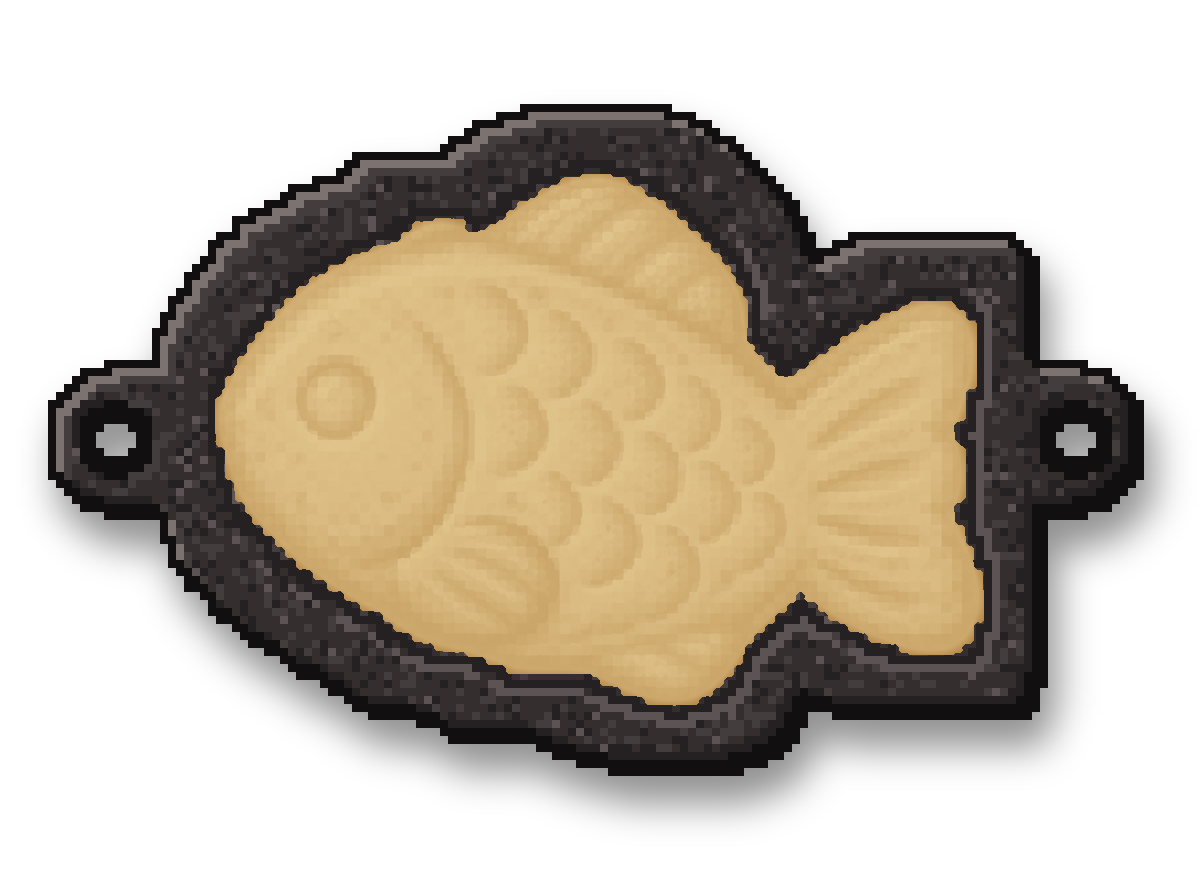
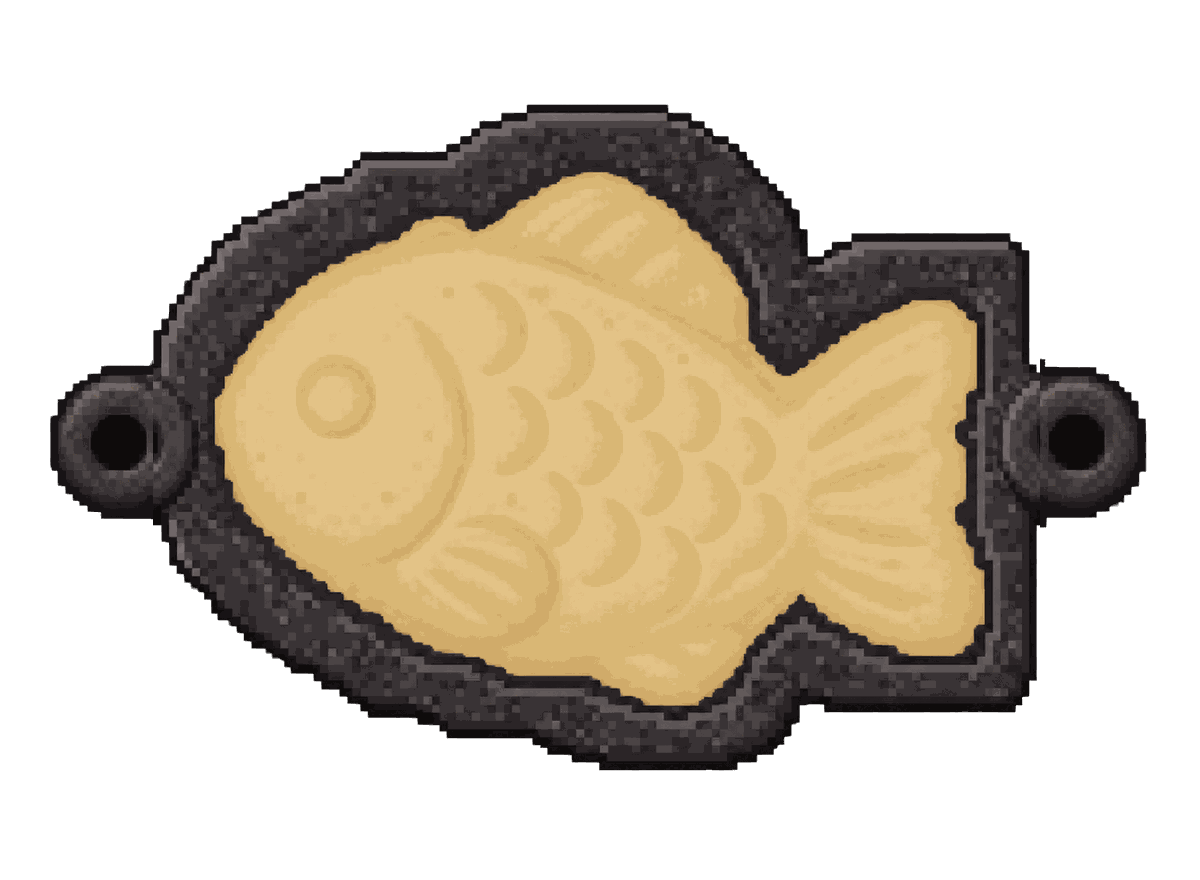
feat(art): 25번 36번 스페셜 틀·걸이 축 그림 적용 — 코드 임시 장치를 그림으로, 축 자리 (118,441.5)·(1076,441.5) — 26번 3차 F3
- tools/apply_25_art.py --only mold: 1464×1074 → 1200×880(붕어빵 홈 2px 안), 7장 모두 닫힌 틀 고리 사용, 축 두 장은 구멍에 맞춰 옮김, 256색
- MoldAxlePainter가 mold/axle_back·axle_front를 그림(없으면 코드 그림)
- flipAxleLeftRing/RightRing, WorkshopMoldArt.pictureTop/Bottom 102·833
- 미리보기 하네스에 속·덮기·뒤집기 81% 화면 추가, 홈·첫 영업·스킬 창·꾸미기 골든 갱신
- 25번 목록 36번 줄 추가, 24~31번 상태(보관·43~49번 대체, 31번 아이콘 재사용), MASTER·26번 F3 결과·DEC-TBD-hF3-1

diff --git a/1_app_development/lib/ui/workshop_mold_stage.dart b/1_app_development/lib/ui/workshop_mold_stage.dart
@@ -354,8 +354,9 @@ class _WorkshopMoldStageState extends State<WorkshopMoldStage> {
   }
 }
 
-/// The top and bottom of the mold picture's opaque part (mold/*.png rows
-/// 89~847 of 880) drawn over [rect] with [grow] (WorkshopMoldArt.fit).
+/// The top and bottom of the mold picture's opaque part with its axle
+/// (mold/*.png rows 102~833 of 880) drawn over [rect] with [grow]
+/// (WorkshopMoldArt.fit).
 (double, double) moldPictureSpan(Rect rect, double grow) {
   final (k, origin) = WorkshopMoldArt.fit(rect.size, grow);
   return (rect.top + origin.dy + WorkshopMoldArt.pictureTop * k,
@@ -496,8 +497,9 @@ class WorkshopMoldArt extends CustomPainter {
   /// (tools/make_home_stage_art.py).
   static const fishRect = Rect.fromLTRB(215, 174, 984, 706);
 
-  /// The first and last rows of the mold pictures' opaque part.
-  static const pictureTop = 89.0, pictureBottom = 847.0;
+  /// The first row of the mold pictures' opaque part and the last row of
+  /// the axle's feet under it (mold/axle_back.png), which stand lower.
+  static const pictureTop = 102.0, pictureBottom = 833.0;
   static const fishAt = Offset(100, 66);
   static final _smooth = Paint()..filterQuality = FilterQuality.medium;
 
@@ -567,8 +569,9 @@ class WorkshopMoldArt extends CustomPainter {
 /// mold), and while flipping the push's [progress] as a honey ring round
 /// the right pin and, before a push, a small curved arrow ([hint]). Drawn
 /// in the mold picture's coordinates (WorkshopMoldArt.fit), so it follows
-/// the mold's place and size. A stand-in until the new mold art with its
-/// own axle (25번 36번 주문) is in.
+/// the mold's place and size. The rods, posts and pins are 25번 36번 art
+/// (mold/axle_back.png, axle_front.png, 1200x880 like the mold); without
+/// them they are drawn in code.
 class MoldAxlePainter extends CustomPainter {
   final double grow, progress;
   final bool front, hint;
@@ -581,7 +584,11 @@ class MoldAxlePainter extends CustomPainter {
     final (k, origin) = WorkshopMoldArt.fit(size, grow);
     Offset at(double x, double y) => origin + Offset(x, y) * k;
     final rings = [flipAxleLeftRing, flipAxleRightRing];
-    if (!front) {
+    final art = PixelSprites.mold(front ? 'axle_front' : 'axle_back');
+    if (art != null) {
+      WorkshopMoldArt.drawAt(canvas, art, Offset.zero, k, origin);
+      if (!front) return;
+    } else if (!front) {
       for (final (i, (x, y)) in rings.indexed) {
         final out = i == 0 ? x - 66 : x + 66;
         // The rod from the ring out to the bracket.
@@ -609,7 +616,7 @@ class MoldAxlePainter extends CustomPainter {
       }
       return;
     }
-    for (final (x, y) in rings) {
+    for (final (x, y) in art == null ? rings : const <(double, double)>[]) {
       canvas.drawCircle(at(x, y), 21 * k, Paint()..color = iron);
       canvas.drawCircle(at(x, y), 13 * k, Paint()..color = brass);
       canvas.drawCircle(at(x - 4, y - 4), 5 * k, Paint()..color = const Color(0xfff3dca0));

diff --git a/1_app_development/tools/preview_h_c_test.dart b/1_app_development/tools/preview_h_c_test.dart
@@ -101,6 +101,22 @@ void main() {
       await shot(tester, 'batter');
       await tester.pumpWidget(const SizedBox.shrink());
     });
+    // 25번 36번 틀 그림(26번 3차 F3): 속·덮기 단계의 틀과 걸이 축.
+    for (final (name, steps) in const [('filling', 1), ('second', 2), ('closing', 3)]) {
+      testWidgets('틀 $name ${size.width}', (tester) async {
+        final c = await open(tester, size);
+        expect(await c.startPractice(), isTrue);
+        var s = c.state.session!;
+        if (steps >= 1) s = s.pour(s.token, PaintAmount.even);
+        if (steps >= 2) s = s.squeezeFilling(s.token, PaintAmount.even);
+        if (steps >= 3) s = s.pour(s.token, PaintAmount.even);
+        final at = s;
+        await c.command(() => c.state.session = at);
+        await tester.pump();
+        await shot(tester, 'mold_$name');
+        await tester.pumpWidget(const SizedBox.shrink());
+      });
+    }
     testWidgets('뒤집기 ${size.width}', (tester) async {
       final c = await open(tester, size, reduced: false);
       expect(await c.startPractice(), isTrue);
@@ -120,6 +136,12 @@ void main() {
         await tester.pump();
       }
       await shot(tester, 'flipping');
+      // Past standing on edge (about 100°, before 120° falls over).
+      for (var d = box.height * .3; d <= box.height * .55; d += 8) {
+        await gesture.moveTo(box.center + Offset(0, box.height * .2 - d));
+        await tester.pump();
+      }
+      await shot(tester, 'flipping_edge');
       await gesture.up();
       await tester.pumpWidget(const SizedBox.shrink());
     });

diff --git a/1_app_development/lib/ui/pixel_sprites.dart b/1_app_development/lib/ui/pixel_sprites.dart
@@ -163,6 +163,10 @@ class PixelSprites {
     'closed',
   ];
 
+  /// The special mold's hanging axle (25번 36번, same 1200x880 canvas as the
+  /// mold): rods and posts behind it, brass pins in front (MoldAxlePainter).
+  static const moldAxleNames = ['axle_back', 'axle_front'];
+
   static final _images = <String, ui.Image>{};
   static Future<void>? _loading;
   static final _paint = Paint()
@@ -327,6 +331,7 @@ class PixelSprites {
       }
     }
     yield* moldNames.map((n) => 'assets/images/mold/$n.png');
+    yield* moldAxleNames.map((n) => 'assets/images/mold/$n.png');
     for (final stove in _slot(CosmeticSlot.stove)) {
       yield _emptyStovePath(stove.id);
       yield _stoveFishPath(stove.id);

diff --git a/1_app_development/lib/feedback_config.dart b/1_app_development/lib/feedback_config.dart
@@ -76,6 +76,8 @@ const flipAxleDoneDegrees = 120.0;
 const flipAxleStartPx = 6.0;
 
 /// The axle's place in the mold picture (mold/*.png, 1200x880): the centres
-/// of the two side rings (measured on mold/closed.png).
-const flipAxleLeftRing = (114.0, 430.0);
-const flipAxleRightRing = (1072.0, 430.0);
+/// of the two side rings' holes, where the brass pins of mold/axle_front.png
+/// sit (25번 36번 art, measured on mold/closed.png; tools/apply_25_art.py
+/// --only mold).
+const flipAxleLeftRing = (118.0, 441.5);
+const flipAxleRightRing = (1076.0, 441.5);

diff --git a/1_app_development/tools/apply_25_art.py b/1_app_development/tools/apply_25_art.py
@@ -17,6 +17,7 @@ snaps the alpha so there is no halo:
     python tools/apply_25_art.py <26_feedback_generated> --only room --only title --only stall16 --preview
     python tools/apply_25_art.py <26_feedback_generated> --only intro --preview
     python tools/apply_25_art.py <26_feedback_generated> --only firstrun --only today --only packs --preview
+    python tools/apply_25_art.py <26_feedback_generated> --only mold --preview
 
 Run it in 1_app_development. Outputs:
 
@@ -83,6 +84,12 @@ Run it in 1_app_development. Outputs:
 * assets/images/ui/gold_pack_1..5.png (128x128): 25번 40번 shop gold packs
   from 40_gold_packs/, each a little bigger than the one before
   ([PACK_FILL], see packs()).
+* assets/images/mold/<state>.png (1200x880, 7 states) and mold/axle_back.png,
+  axle_front.png (1200x880): 25번 36번 special mold with its hanging axle
+  (26번 3차 H21) from 36_mold_axle/ (1464x1074 = the mold canvas x1.22, so a
+  plain resize keeps fishRect within 2 px). Every state takes its side lugs
+  from the closed mold (the lugs moved up to 10 px between states) and each
+  side of the axle layers is moved onto those lugs' holes (see molds()).
 """
 import argparse
 import sys
@@ -742,6 +749,62 @@ def packs(src):
     return made
 
 
+# ---------------------------------------------------------------- 26번 3차 F3
+
+MOLD_SIZE = (1200, 880)
+MOLD_STATES = ["empty", "batter", "batter_top", "filling_redbean", "filling_custard",
+               "filling_cocoa", "closed"]
+# Columns outside these come from the closed mold: the side lugs (the body
+# starts at x 155 on the left and ends near x 1038 on the right).
+MOLD_LUG_LEFT, MOLD_LUG_RIGHT = 153, 1040
+# Shift (mold px) of each half of the axle layers onto the closed mold's lug
+# holes: generated pins at (118.0, 437.3)/(1081.0, 437.3), holes at
+# (118.3, 441.5)/(1076.1, 441.3) — feedback_config flipAxleLeftRing/RightRing.
+AXLE_SHIFT = {"left": (0, 4), "right": (-5, 4)}
+
+
+def mold_clean(img):
+    """[img] at the mold size with only its biggest drawn piece (the cocoa
+    state has a few stray specks) and hard alpha (40/215)."""
+    small = premultiplied_resize(img, MOLD_SIZE)
+    return snap_alpha(biggest_piece(small), 40, 215)
+
+
+def mold_save(img, name):
+    """256 flat colours without dither (about 80 KB instead of 550 KB, mean
+    change under 1.1 of 255)."""
+    img.quantize(256, method=Image.Quantize.FASTOCTREE, dither=Image.Dither.NONE).save(
+        IMAGES / "mold" / f"{name}.png", optimize=True)
+
+
+def molds(src):
+    """25번 36번: the special mold's 7 states with round axle bushings, and
+    the hanging axle in two layers (axle_back: posts and rods behind the
+    mold; axle_front: brass pin heads in front of a turning mold)."""
+    folder = next((src / f for f in ("36_mold_axle", "H-C-1_mold_axle")
+                   if (src / f).is_dir()), src)
+    states = {n: np.asarray(mold_clean(load(folder / f"{n}.png"))).copy() for n in MOLD_STATES}
+    lugs = states["closed"]
+    made = {}
+    for name, a in states.items():
+        a[:, :MOLD_LUG_LEFT] = lugs[:, :MOLD_LUG_LEFT]
+        a[:, MOLD_LUG_RIGHT:] = lugs[:, MOLD_LUG_RIGHT:]
+        out = Image.fromarray(a, "RGBA")
+        mold_save(out, name)
+        made[f"mold/{name}"] = out
+    half = MOLD_SIZE[0] // 2
+    for name in ("axle_back", "axle_front"):
+        img = load(folder / f"{name}.png").crop((0, 0, 1464, 1074))
+        small = snap_alpha(premultiplied_resize(img, MOLD_SIZE), 40, 215)
+        out = Image.new("RGBA", MOLD_SIZE)
+        for side, box in (("left", (0, 0, half, MOLD_SIZE[1])), ("right", (half, 0) + MOLD_SIZE)):
+            dx, dy = AXLE_SHIFT[side]
+            out.alpha_composite(small.crop(box), (box[0] + dx, box[1] + dy))
+        mold_save(out, name)
+        made[f"mold/{name}"] = out
+    return made
+
+
 def main():
     p = argparse.ArgumentParser()
     p.add_argument("source", type=Path, help="the 25_generated folder")
@@ -750,7 +813,7 @@ def main():
                    help="re-measure STOVE_FIT (slow, a few minutes)")
     steps = ["stoves", "bags", "drips", "rings", "textures", "locks", "sparkles",
              "gold", "levelup", "tabs", "room", "title", "stall16", "intro",
-             "firstrun", "today", "packs"]
+             "firstrun", "today", "packs", "mold"]
     p.add_argument("--only", choices=steps, action="append",
                    help="run only these steps (repeatable)")
     args = p.parse_args()
@@ -781,7 +844,7 @@ def main():
     for step, run_step in (("gold", gold), ("levelup", levelup), ("tabs", tabs),
                            ("room", room), ("title", title), ("stall16", stall16),
                            ("intro", intro), ("firstrun", first_run), ("today", today),
-                           ("packs", packs)):
+                           ("packs", packs), ("mold", molds)):
         if step in run and args.only:
             print(step)
             made.update(run_step(src))

diff --git a/2_development_plans_and_checklists/2.1_development_specs_tasks_and_progress/25_필요한그림프롬프트.md b/2_development_plans_and_checklists/2.1_development_specs_tasks_and_progress/25_필요한그림프롬프트.md
@@ -34,18 +34,19 @@
 | 21 | 손님 알림 상태 표시줄 아이콘(흰 붕어빵 실루엣) | **완료** (2026-11-18, 생성 그림 적용) |
 | 22 | 기능 소개 카드 그림 8종(스킬·6구·도감·레시피·특별 주문·붕어빵 꾸미기·신선도·가게 꾸미기) | **완료** (2026-11-19, 생성 그림 적용: `tools/apply_25_art.py --only intro`로 160×120) |
 | 23 | 맨 바탕 사장님(옷·머리 없음) 남녀 × 피부톤 3 | **기준 바탕 확정** (2026-11-19, 사용자 디자인 확인 — `23_avatar_base/normalized/`로 1120×2080 정규화, 게임 `avatar_v2/<성별>/base@skin1~3.png`에 넣음·스위치 꺼짐). 24~31번은 이 정규화 바탕에 맞춰 생성 → **2026-11-20 쓰지 않음**(얼굴이 지금 사장님과 달라 사용자가 v1을 고름, 파일은 보관) → **42번으로 대체** |
-| 24 | 머리 4종 × 남녀 (+ 몸 뒤 머리 조각) | **생성됨·적용 전 검수 필요** — 상세 항목의 상태·저장 경로 참조 → **2026-11-20: v1 몸에서 입은 느낌이 안 나 쓰지 않음 → 43번으로 다시 그림** |
-| 25 | 모자 9종 × 남녀 (야구모자 2종은 비스듬히) | **생성됨·적용 전 검수 필요** — 상세 항목의 상태·저장 경로 참조 → **2026-11-20: v1 몸에서 입은 느낌이 안 나 쓰지 않음 → 44번으로 다시 그림** |
-| 26 | 상의 8종 × 남녀 (흰 티·요리사 복·패딩 조끼 포함) | **생성됨·적용 전 검수 필요** — 상세 항목의 상태·저장 경로 참조 → **2026-11-20: v1 몸에서 입은 느낌이 안 나 쓰지 않음 → 45번으로 다시 그림** |
-| 27 | 하의 10종 × 남녀 (기존 4 + 새 6) | **생성됨·적용 전 검수 필요** — 상세 항목의 상태·저장 경로 참조 → **2026-11-20: v1 몸에서 입은 느낌이 안 나 쓰지 않음 → 46번으로 다시 그림** |
-| 28 | 신발 4종 × 남녀 | **생성됨·적용 전 검수 필요** — 상세 항목의 상태·저장 경로 참조 → **2026-11-20: v1 몸에서 입은 느낌이 안 나 쓰지 않음 → 47번으로 다시 그림** |
-| 29 | 앞치마 5종 × 남녀 | **생성됨·적용 전 검수 필요** — 상세 항목의 상태·저장 경로 참조 → **2026-11-20: v1 몸에서 입은 느낌이 안 나 쓰지 않음 → 48번으로 다시 그림** |
-| 30 | 소품 6종·도구 4종 × 남녀 | **생성됨·적용 전 검수 필요** — 상세 항목의 상태·저장 경로 참조 → **2026-11-20: v1 몸에서 입은 느낌이 안 나 쓰지 않음 → 49번으로 다시 그림** |
-| 31 | 꾸미기 아바타 칸 아이콘 56장(피부톤 = 얼굴 없는 마네킹) | **생성됨·적용 전 검수 필요** — 상세 항목의 상태·저장 경로 참조 → **2026-11-20: 아이템 아이콘은 재사용**(사장님 아이콘만 v1 얼굴로 되돌림) |
+| 24 | 머리 4종 × 남녀 (+ 몸 뒤 머리 조각) | **보관(쓰지 않음)** — 23번 v2 바탕용으로 생성해 게임 `avatar_v2/`에 넣었으나, 2026-11-20 사용자 결정(DEC-145·147: v1 사장님 유지, v1 몸에서 입은 느낌이 안 남)으로 새 아바타 스위치(`avatarV2Enabled`)를 끈 채 파일만 보관 → **43번으로 대체** |
+| 25 | 모자 9종 × 남녀 (야구모자 2종은 비스듬히) | **보관(쓰지 않음)** — 23번 v2 바탕용으로 생성해 게임 `avatar_v2/`에 넣었으나, 2026-11-20 사용자 결정(DEC-145·147: v1 사장님 유지, v1 몸에서 입은 느낌이 안 남)으로 새 아바타 스위치(`avatarV2Enabled`)를 끈 채 파일만 보관 → **44번으로 대체** |
+| 26 | 상의 8종 × 남녀 (흰 티·요리사 복·패딩 조끼 포함) | **보관(쓰지 않음)** — 23번 v2 바탕용으로 생성해 게임 `avatar_v2/`에 넣었으나, 2026-11-20 사용자 결정(DEC-145·147: v1 사장님 유지, v1 몸에서 입은 느낌이 안 남)으로 새 아바타 스위치(`avatarV2Enabled`)를 끈 채 파일만 보관 → **45번으로 대체** |
+| 27 | 하의 10종 × 남녀 (기존 4 + 새 6) | **보관(쓰지 않음)** — 23번 v2 바탕용으로 생성해 게임 `avatar_v2/`에 넣었으나, 2026-11-20 사용자 결정(DEC-145·147: v1 사장님 유지, v1 몸에서 입은 느낌이 안 남)으로 새 아바타 스위치(`avatarV2Enabled`)를 끈 채 파일만 보관 → **46번으로 대체** |
+| 28 | 신발 4종 × 남녀 | **보관(쓰지 않음)** — 23번 v2 바탕용으로 생성해 게임 `avatar_v2/`에 넣었으나, 2026-11-20 사용자 결정(DEC-145·147: v1 사장님 유지, v1 몸에서 입은 느낌이 안 남)으로 새 아바타 스위치(`avatarV2Enabled`)를 끈 채 파일만 보관 → **47번으로 대체** |
+| 29 | 앞치마 5종 × 남녀 | **보관(쓰지 않음)** — 23번 v2 바탕용으로 생성해 게임 `avatar_v2/`에 넣었으나, 2026-11-20 사용자 결정(DEC-145·147: v1 사장님 유지, v1 몸에서 입은 느낌이 안 남)으로 새 아바타 스위치(`avatarV2Enabled`)를 끈 채 파일만 보관 → **48번으로 대체** |
+| 30 | 소품 6종·도구 4종 × 남녀 | **보관(쓰지 않음)** — 23번 v2 바탕용으로 생성해 게임 `avatar_v2/`에 넣었으나, 2026-11-20 사용자 결정(DEC-145·147: v1 사장님 유지, v1 몸에서 입은 느낌이 안 남)으로 새 아바타 스위치(`avatarV2Enabled`)를 끈 채 파일만 보관 → **49번으로 대체** |
+| 31 | 꾸미기 아바타 칸 아이콘 56장(피부톤 = 얼굴 없는 마네킹) | **일부 재사용** — v2용으로 적용했다가 2026-11-20 사용자 결정(DEC-145·147)으로 새 아바타 스위치를 끔. **아이템 아이콘은 그대로 재사용**, 사장님(피부톤) 아이콘만 v1 얼굴로 되돌림 |
 | 32 | 겨울 행사 매대 장식 3종(첫눈·크리스마스·설날) | **완료** (2026-11-19, 생성 그림 적용: `deco/event_<kind>.png` 폭 540, 설정 `seasonal_events[].decoration` = `event_<kind>`) |
 | 33 | 스킬 창 'LEVEL UP' 글자 버튼(켜짐·꺼짐) | **완료** (2026-11-19, 생성 그림 적용: 켜짐 그림만 사용, 꺼짐은 켜짐을 회색으로 바꿔 만듦 — 생성된 꺼짐 그림은 면에 구멍 2개) |
 | 34 | 6구 뚜껑 '낮게 젖힌 뚜껑'(열림 4종) | **완료** (2026-11-19, 생성 그림 적용: `tools/apply_26_stoves.py --low`로 `stove_open/<화로>.png` 4장 교체, 홈 뚜껑 그리기가 판 뒤 가장자리까지 내려가게 고침) |
 | 35 | 창 제목 옆 붕어빵 장식 다시 그리기 | **완료** (2026-11-19, 생성 그림 적용: `ui/title_fish.png` 96×72) |
+| 36 | 스페셜 붕어빵 틀 다시 그리기 — 양옆 고리에 걸이 축(3차 H21) | **완료** (2026-11-20, 26번 3차 F3: `tools/apply_25_art.py --only mold`로 틀 7장 `mold/<상태>.png`와 걸이 장치 `mold/axle_back.png`·`axle_front.png`(모두 1200×880, 256색) 적용, `MoldAxlePainter`가 코드 그림 대신 이 두 장을 그림. 붕어빵 홈 `fishRect` 그대로(2px 안), 고리 구멍 중심 (118,441.5)·(1076,441.5)로 `flipAxleLeftRing`·`RightRing` 갱신. 재생성 필요 없음) |
 | 37 | 첫 실행 화면(로그인·이름·캐릭터·선택 정보) 겨울 붕어빵 노점 일러스트 | **완료** (2026-11-20, 26번 3차 F2: `tools/apply_25_art.py --only firstrun`로 `ui/first_run.png` 416×945(원본 정확히 절반, 256색) 적용. 네 화면 모두 위 천막·등불, 아래 수레 바퀴·눈길이 보임, 재생성 필요 없음) |
 | 38 | '오늘' 창 아이콘 2종: 출석 도장·오늘의 주문서 | **완료** (2026-11-20, 26번 3차 F2: `tools/apply_25_art.py --only today`로 `icons/stamp.png`·`icons/order.png` 72×72 적용, `AttendanceStampIcon`·`DailyOrderIcon`이 `PixelIcon`을 씀. 도장 옆 '찍힌 자국'은 26px에서 도장이 너무 작아져 잘라 냄, 재생성 필요 없음) |
 | 39 | 공유 카드용 사장님 '자랑 포즈'(붕어빵을 들어 보이는 앞모습) 남녀 | **재생성 필요 · 42번 확정 뒤에 생성** — 2026-11-20 검수(26번 3차 F2): 생성분은 v2 맨 바탕(23번) 기준 맨팔이라 지금 v1 사장님에 얹으면 원래 내린 팔이 그대로 남아 팔이 네 개, 어깨 위치도 어긋남 → **적용하지 않음**. v1(42번) 기준 재생성 요청은 39번 절 '재생성 요청'. 그동안 공유 카드는 앞모습 + 집게 끝 붕어빵 그대로 |
@@ -1405,10 +1406,11 @@ It fills about 90% of the canvas. No text, no background, no shadow.
 | 그림 내용 | 틀: 지금 틀과 같은 무쇠 질감·외곽선, 양옆 고리를 조금 더 두껍고 둥근 **축 구멍(부싱)** 으로. 장치: 고리를 관통하는 짧은 쇠 막대가 양쪽 바깥으로 약 60px 나와 작은 무쇠 받침대(세로 기둥 + 발판, 그림 아래끝 약 y 870)에 걸림, 고리 앞에는 놋쇠 핀 머리. 노점 붕어빵 기계처럼 "축에 걸려 있다"가 한눈에 보이게 |
 | 참고 원본 | 지금 `mold/closed.png`·`mold/empty.png`, 임시 장치 화면 `C:\Users\이소이\Desktop\26번_시안_확인\3차\C\H21_after_flip_390x844.png` |
 | 생성 원본 폴더 | `4_image_generation_results_and_backups/26_feedback_generated/36_mold_axle/` |
-| 상태 | 생성됨 — 4_image_generation_results_and_backups/26_feedback_generated/36_mold_axle/ |
+| 상태 | 생성됨·**적용 완료(2026-11-20, 26번 3차 F3)** — 4_image_generation_results_and_backups/26_feedback_generated/36_mold_axle/ |
 | 생성 원본 | 틀 7장 + axle_back·axle_front 총 9장, 각 PNG·정확한 프롬프트·메타데이터·validation.json 저장. 실제 크기 8장 1464×1074, axle_back 1464×1075, RGBA 알파 0~255. 처음 작업한 H-C-1_mold_axle/는 백업으로 보존. 반죽·속은 기존 상태를 유지하고 추가 음식은 그리지 않음. |
 | 추가 확인 요청 | 적용 전 모두 1200×880으로 맞추고 fishRect(215,174)~(984,706)·고리 중심(114,430)/(1072,430)을 원본에 정렬해 주세요. 생성 도구가 고리 외 픽셀 동일성을 보장하지 않았으므로 원본 틀과 합성 검수 필요. 핀 중심은 단순 축소 시 약(118.4,437.5)/(1081.6,437.5), 받침 발은 y828.4로 목표 y870과 달라 위치·높이 보정 필요. 두 장치 레이어가 회전하는 틀과 분리되어 맞물리는지도 확인. 임시 H21 화면은 C:/D: 지정 경로에서 찾지 못해 현재 empty/closed 원본과 명시 좌표를 참조함. |
 | 적용 | 틀 7장은 같은 이름으로 교체, `axle_back`·`axle_front`가 들어오면 `MoldAxlePainter`가 코드 그림 대신 이 두 장을 그리도록 바꿈(작은 코드 변경) → `workshop_home_*` 골든 다시 만듦 |
+| 적용 결과 (2026-11-20, 26번 3차 F3) | **검수**: 1464×1074는 1200×880의 정확히 1.22배라 그냥 줄이면 붕어빵 홈(반죽 색 영역)이 (215,174)~(984,706)에 2px 안으로 맞음 → 반죽·속 칠 마스크(`fish_cavity_mask.dart`)·결과 붕어빵 자리 그대로. 다만 ① 고리 구멍 위치가 상태마다 최대 10px 다름(반죽 그림 왼쪽 128 / 닫힌 틀 118) → 7장 모두 **닫힌 틀의 고리**(x<153, x≥1040 열)를 붙여 같게 함(이음매 안 보임). ② 핀 그림 중심 (118,437.3)/(1081,437.3)이 구멍 (118.3,441.5)/(1076.1,441.3)과 어긋남 → 축 두 장을 좌우 반쪽씩 (0,+4)/(−5,+4) 옮김. ③ 받침 발 아래끝은 y 833(요청 870보다 위) — 화면에서 판매대 근처에 서 보여 그대로 씀. ④ 코코아 그림의 떨어진 점 8개 지움, 생성 틀에는 바닥 그림자가 없음(걸려 있는 모양이라 그대로). **코드**: `MoldAxlePainter`가 `PixelSprites.mold('axle_back'/'axle_front')`를 틀과 같은 좌표로 그림(없으면 예전 코드 그림), 진행 고리·굽은 화살표는 코드 그대로. `flipAxleLeftRing`·`RightRing` (114,430)·(1072,430) → (118,441.5)·(1076,441.5) — 뒤집을 때 틀이 핀을 지나는 축으로 돎(90° 근처에서 틀이 핀 높이 한 줄로 보임). `WorkshopMoldArt.pictureTop/Bottom` 89·847 → 102·833(틀 위끝 ~ 받침 발 아래끝). 256색으로 줄여 한 장 약 80KB. **확인**: 390×844·360×800 영업 준비·반죽·속·덮기·뒤집기(43%·81%)·결과에서 핀이 구멍 가운데, 기둥이 틀 뒤, 겹침·잘림 없음. 확인 그림 `C:\Users\이소이\Desktop\26번_시안_확인\3차\F3\25-36_*` |
 
 ### Prompt
 

diff --git a/2_development_plans_and_checklists/2.1_development_specs_tasks_and_progress/2.1.1_game_rules_and_decisions/00_결정취합.md b/2_development_plans_and_checklists/2.1_development_specs_tasks_and_progress/2.1.1_game_rules_and_decisions/00_결정취합.md
@@ -541,6 +541,7 @@ DEC-016: 고정8명·외모/호칭/상황대사·점진 도감·친밀도/관계
 | DEC-145 | 아바타는 v1(지금 얼굴·몸) 유지, 아이템만 바꿈 (26번 3차 G, DEC-140 일부 되돌림) | [확정] 사용자 결정(2026-11-20) "아바타 전(v1)이 더 낫다, 얼굴·몸은 그대로 두고 머리·옷·모자·신발·앞치마·소품만 바꿔야" | ① 새 아바타(v2) 스위치를 끔(`avatarV2Enabled = false`), v2·23번 바탕 그림은 보관 ② 남자 v1 바탕을 3차 전 원본으로 되돌림(B1의 `rebase`가 얼굴을 바꿨음) — 얼굴 픽셀 0개 변경, H9는 목 띠 좌우 대칭(`tidy`)만, 바닥 찌꺼기·팔 옆 흰 찌꺼기 지움 ③ 집게 없음(H8) 유지 ④ v1 아이템 정리: 여자 옷 레이어에 남은 긴 머리 끝(짧은·묶은 머리에서 손 옆에 뜨던 것, `strands`), 남자 옷의 팔·몸 사이 흰 찌꺼기(`gap`), 모자 아래 남자 짧은 머리는 바탕 머리로(`v1HatHairAsBase`). 숨긴 v1 아이템은 황금 집게뿐 ⑤ 25번 42번: v1 얼굴·몸 그대로 머리·옷만 지운 맨 바탕 주문 ⑥ 사용자 추가 요구(2026-11-20) '아이템이 스티커처럼 얹히지 않고 입은 느낌으로': 24~30번(v2용)은 v1 몸에 옮기면 머리·어깨 크기가 달라 입은 느낌이 나지 않아 **재사용하지 않고** 43~49번으로 v1 몸에 입은 모습(주름·그림자·가림, 몸 뒤 `_back`·손가락 `_front` 조각)으로 다시 주문, 31번 아이템 아이콘만 재사용. 그림이 오면 v1 얼굴 픽셀을 지키며 바탕을 바꾸고 점검 시트 통과 뒤 스위치를 켬 |
 | DEC-146 | 황금 집게 → 황금 뒤집개로 다시 그림 (26번 3차 G, DEC-140 ①의 확인 필요 답) | [확정] 사용자 결정(2026-11-20) '다른 손 도구로' + 도구 종류는 추천안(황금 뒤집개) | 상품 id `goldtongs`·가격·해금·보유 기록 그대로, 그림이 올 때까지 숨김 유지. 25번 41번에 황금 뒤집개(붕어빵 틀 뒤집개, 30번 도구 규격, 남녀) 영어 프롬프트 주문. 그림이 오면 이름 '황금 뒤집개'(앱·설정·서버 생성 설정 → 서버 배포 필요)와 그림만 바꾸고 숨김 해제 |
 | DEC-147 | 25번 42번 맨 바탕 확정: 생성 시안 그대로 + 머리 회색 덮개만 지움 (DEC-145 ⑤ 보완) | [확정] 사용자 결정(2026-11-20) | 42번 생성 시안(880×1787)의 얼굴·몸을 그대로 채택하고 v1 원본 픽셀로 복원하지 않음(42번 '얼굴·몸 픽셀 그대로' 요구 없앰). 회색 머리 덮개만 같은 피부색의 매끈한 맨머리로 칠함(외곽선 유지, 회색 민소매·속바지·맨발 그대로). 23번처럼 균일 배율+평행 이동으로 1120×2080 정규화(배율은 눈~발바닥 거리를 v1과 같게, 발바닥 2079행), skin2·3은 23번 색 맞춤으로 피부만 다시 칠함 → `42_v1_bare_base/normalized/<성별>/base_skin1~3.png`(도구 `42_v1_bare_base/review/finalize_bare_base.py`). 새 좌표 여자 눈 (613.25, 687.75)·입 (612.5, 814.5), 남자 눈 (605.75, 680.5)·입 (603.5, 797.5), 발 2079행 — 43~49번은 이 바탕·좌표로 생성. 앱 스위치(`avatarV2Enabled`)는 아직 꺼진 채 v1, 43~49번 그림이 오면 이 바탕으로 바꿈 |
+| DEC-TBD-hF3-1 | 25번 36번 틀·걸이 축 그림 적용 — 축 자리를 새 그림 고리 구멍으로 (26번 3차 F3, H21 보완) | [확정] 추천안(그림 검수 결과) | 생성 틀 7장 + `axle_back`·`axle_front`를 `tools/apply_25_art.py --only mold`로 1200×880에 맞춰 적용(붕어빵 홈 `fishRect` 그대로). 상태마다 고리 위치가 달라 7장 모두 닫힌 틀의 고리를 씀, 핀·막대는 그 구멍에 맞춰 옮김. 뒤집기 축 `flipAxleLeftRing`·`flipAxleRightRing` (114,430)·(1072,430) → (118,441.5)·(1076,441.5), 틀 자리 계산 `pictureTop/Bottom` 89·847 → 102·833(받침 발 포함). 뒤집기 규칙(틀 높이만큼 밀면 180°, 120° 넘으면 넘어감)은 그대로. 생성 틀에 바닥 그림자 없음 — 걸려 있는 모양이라 그대로 둠 |
 
 ### 26번 2차 구현 전 확정 — 추천안과 단계별 답 (2026-11-18)
 

diff --git a/2_development_plans_and_checklists/2.1_development_specs_tasks_and_progress/26_흥행개선단계별프롬프트.md b/2_development_plans_and_checklists/2.1_development_specs_tasks_and_progress/26_흥행개선단계별프롬프트.md
@@ -1995,6 +1995,16 @@ H번호 없이 25번 문서의 '생성됨·적용 전 검수 필요' 그림 5건
 
 확인 필요: ① 39번 재생성은 42번(v1 맨 바탕) 확정 뒤 — 그동안 공유 카드는 앞모습 + 집게 끝 붕어빵. ② 첫 실행 그림 위에 코드 눈 내림도 그대로 겹쳐 내림(그림에도 눈송이가 있음) — 과하면 그림이 있을 때 눈 내림을 끄는 스위치를 둘 수 있음.
 
+### 3차 피드백 F3 결과 (25번 36번 틀 걸이 축 그림 검수·적용, 2026-11-20, `s26/h_F3`, DEC-TBD-hF3-1)
+
+25번 36번(H21 걸이 축)의 생성 틀 7장 + 걸이 장치 2장을 검수해 C 묶음의 코드 임시 장치를 바꿈. 자세한 값은 25번 36번 절 '적용 결과'.
+
+| 25번 (H) | 결과 | 확인 이미지 (`C:\Users\이소이\Desktop\26번_시안_확인\3차\F3\`) |
+| --- | --- | --- |
+| 36 스페셜 틀 걸이 축 (H21) | 적용. `mold/<상태>.png` 7장 + `mold/axle_back.png`(받침 기둥·막대, 틀 뒤)·`axle_front.png`(놋쇠 핀, 도는 틀 앞), 모두 1200×880·256색. 붕어빵 홈 2px 안으로 맞아 반죽·속 칠 영역·결과 붕어빵 자리 그대로. 상태마다 다른 고리 위치는 닫힌 틀 고리로 통일, 핀·막대를 구멍에 맞춰 옮김. `MoldAxlePainter`가 그림 두 장을 그림(없으면 코드 그림). 축 `flipAxleLeftRing/RightRing` (118,441.5)·(1076,441.5), `pictureTop/Bottom` 102·833. 390×844·360×800 영업 준비·반죽·속·덮기·뒤집기 43%/81%·결과 확인 — 핀이 구멍 가운데, 뒤집을 때 핀을 지나는 축으로 돎, 겹침·잘림 없음 | `25-36_H21_틀걸이축_*_전후_390x844.png`, `…_360x800.png`, `25-36_틀7장_걸이축_합성.png`, `25-36_틀7장_고리·핀_정렬확대.png` |
+
+확인 필요: ① 생성 틀에는 예전 코드 틀의 바닥 그림자가 없음(축에 걸린 모양이라 그대로 둠). ② 받침 발 아래끝이 요청(y 870)보다 높은 833 — 판매대 위에 서 보이나, 판매대에 딱 닿게 하려면 다시 그리기 대신 기둥 늘이기를 검토.
+
 ## 사용 팁
 
 - **사용 방법**: VS Code 왼쪽 Claude Code 창에서 새 대화를 연다(또는 터미널에서 `claude` 실행). 이 문서의 해당 단계 상자(```text ... ```) 안의 글을 통째로 복사해 붙여 넣고 보낸다.
